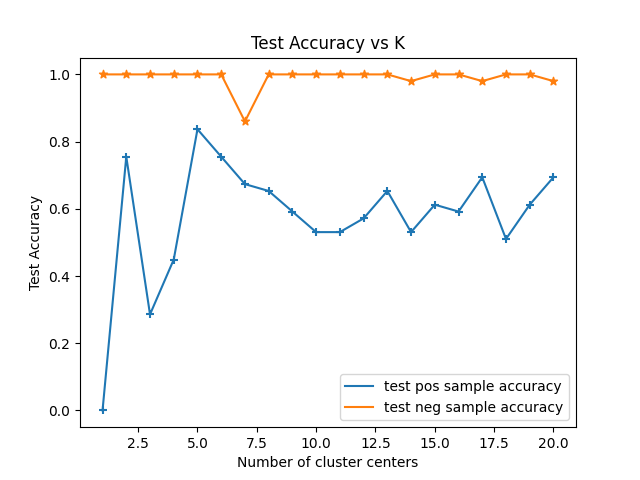
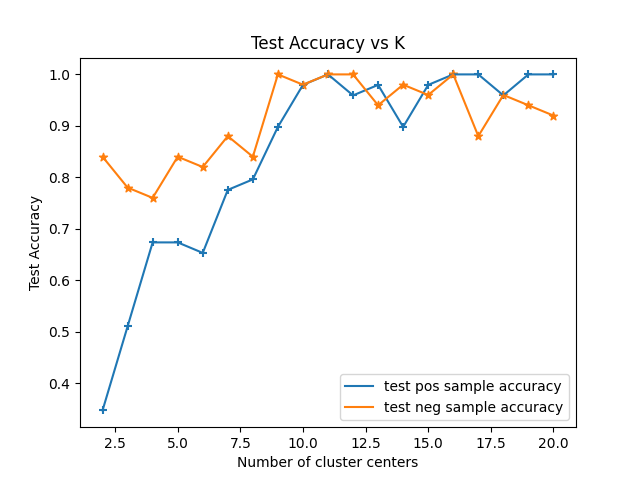
Fix Bag-of-Words classifier

diff --git a/Assignment_3/code/bow_main.py b/Assignment_3/code/bow_main.py
@@ -46,10 +46,11 @@ def grid_points(img, nPointsX, nPointsY, border):
 
     # todo
     h, w = img.shape
-    pts_x = np.linspace(border, h-border-1, nPointsX).astype(int)
-    pts_y = np.linspace(border, w-border-1, nPointsY).astype(int)
+    pts_y = np.linspace(border, h-border, nPointsY).astype(int)
+    pts_x = np.linspace(border, w-border, nPointsX).astype(int)
 
-    vPoints = np.column_stack((pts_x.reshape(-1,1), pts_y.reshape(-1,1)))
+    all_pts_x, all_pts_y = np.meshgrid(pts_x, pts_y, indexing='ij')
+    vPoints = np.column_stack((all_pts_x.reshape(-1,1), all_pts_y.reshape(-1,1)))
 
     return vPoints
 
@@ -80,15 +81,13 @@ def descriptors_hog(img, vPoints, cellWidth, cellHeight):
                 # todo
                 # compute the angles
                 # compute the histogram
+                assert start_x>=0 and start_y>=0
+                assert end_x<=img.shape[1] and end_y<=img.shape[0]
+
                 angles = np.arctan2(grad_y[start_y:end_y, start_x:end_x], grad_x[start_y:end_y, start_x:end_x])
-                angles = angles % (2*np.pi)
+                hist, _ = np.histogram(angles, bins=8, range=(-np.pi, np.pi))
+                desc.append(hist)
 
-                bin_width = (2*np.pi)/nBins
-                hist_indx = (angles/(bin_width)).astype(int)
-                
-                assert np.sum(np.logical_and(hist_indx<0, hist_indx>=nBins)) == 0
-
-                desc.append(np.histogram(hist_indx, bins=8, range=(0,8))[0])
         desc = np.array(desc).reshape(-1)
         descriptors.append(desc)
 
@@ -137,7 +136,7 @@ def create_codebook(nameDirPos, nameDirNeg, k, numiter):
 
     # Cluster the features using K-Means
     print('clustering ...')
-    kmeans_res = KMeans(n_clusters=k, max_iter=numiter, n_init='auto', random_state=1).fit(vFeatures)
+    kmeans_res = KMeans(n_clusters=k, max_iter=numiter, random_state=42).fit(vFeatures)
     vCenters = kmeans_res.cluster_centers_  # [k, 128]
     return vCenters
 
@@ -206,8 +205,8 @@ def bow_recognition_nearest(histogram,vBoWPos,vBoWNeg):
 
     # Find the nearest neighbor in the positive and negative sets and decide based on this neighbor
     # todo
-    DistPos = np.min(np.linalg.norm(vBoWPos-histogram))
-    DistNeg = np.min(np.linalg.norm(vBoWNeg-histogram))
+    DistPos = np.min(np.linalg.norm(vBoWPos-histogram, axis=1))
+    DistNeg = np.min(np.linalg.norm(vBoWNeg-histogram, axis=1))
 
     if (DistPos < DistNeg):
         sLabel = 1
@@ -223,7 +222,7 @@ def hyperparam_search():
     nameDirNeg_test = 'data/data_bow/cars-testing-neg'
 
 
-    K = [*range(1,21)] 
+    K = [*range(2,21)] 
     numiter = 4000  # todo
     pos_acc = []
     neg_acc = []
@@ -274,8 +273,8 @@ if __name__ == '__main__':
     nameDirNeg_test = 'data/data_bow/cars-testing-neg'
 
 
-    k = 5  # todo
-    numiter = 4000  # todo
+    k = 11  # todo
+    numiter = 400  # todo
 
     print('creating codebook ...')
     vCenters = create_codebook(nameDirPos_train, nameDirNeg_train, k, numiter)
